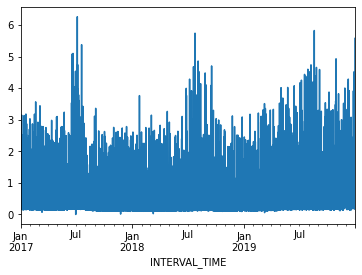
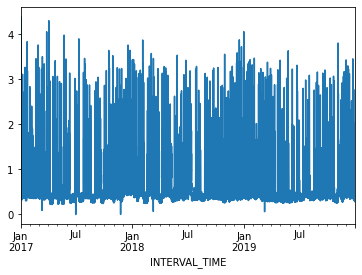
update ep2 to use different data and plots

diff --git a/episodes/02-feature-engineering.md b/episodes/02-feature-engineering.md
@@ -96,7 +96,7 @@ import pandas as pd
 Next we read the data, and set and sort the datetime index.
 
 ```python
-fp = "../../data/ladpu_smart_meter_data_01.csv"
+fp = "../../data/ladpu_smart_meter_data_07.csv"
 df = pd.read_csv(fp)
 df.set_index(pd.to_datetime(df["INTERVAL_TIME"]), inplace=True)
 df.sort_index(inplace=True)
@@ -154,14 +154,13 @@ Data columns (total 1 columns):
 dtypes: float64(1)
 memory usage: 410.6 KB
 None
-
                      INTERVAL_READ
 INTERVAL_TIME                     
-2017-01-01 00:00:00         0.3192
-2017-01-01 01:00:00         0.3294
-2017-01-01 02:00:00         0.3414
-2017-01-01 03:00:00         0.3150
-2017-01-01 04:00:00         0.3288
+2017-01-01 00:00:00         1.4910
+2017-01-01 01:00:00         0.3726
+2017-01-01 02:00:00         0.3528
+2017-01-01 03:00:00         0.3858
+2017-01-01 04:00:00         0.4278
 ```
 
 A plot of the entire dataset is somewhat noisy, though seasonal trends are
@@ -195,12 +194,12 @@ print(hourly_readings.describe().transpose())
 ```
 
 ```output
-                 count      mean       std  min    25%     50%     75%     max
-INTERVAL_READ  26280.0  0.510161  0.651826  0.0  0.153  0.1998  0.5262  6.2604
+                 count      mean       std  min     25%     50%    75%     max
+INTERVAL_READ  26280.0  0.624122  0.405971  0.0  0.3714  0.4818  0.756  4.3872
 ```
 
-The ```max``` value of 6.2604 may seem like an outlier, considering that 75%
-of INTERVAL_READ values are 0.5262 or less. However, a look back up to our first
+The ```max``` value of 4.3872 may seem like an outlier, considering that 75%
+of INTERVAL_READ values are 0.4818 or less. However, a look back up to our first
 plot indicates peak power consumption over a relatively short time period in
 the middle of the year. For now we will accept this max value as reasonable.
 
@@ -238,20 +237,17 @@ month: Int64Index([1, 1, 1, 1, 1], dtype='int64', name='INTERVAL_TIME')
 year Int64Index([2017, 2017, 2017, 2017, 2017], dtype='int64', name='INTERVAL_TIME')
 ```
 
-We can add these attributes as new features.
+We can add these attributes as new features. Out of the attributes shown above,
+we are only going to add a few numeric types and a full date string.
 
 ```python
-
 hourly_readings['hour'] = hourly_readings.index.hour
 hourly_readings['day_month'] = hourly_readings.index.day
 hourly_readings['day_week'] = hourly_readings.index.day_of_week
-hourly_readings['day_year'] = hourly_readings.index.day_of_year
-hourly_readings['day_name'] = hourly_readings.index.day_name()
-hourly_readings['week'] = hourly_readings.index.week
 hourly_readings['month'] = hourly_readings.index.month
-hourly_readings['year'] = hourly_readings.index.year
 hourly_readings['date'] = hourly_readings.index.to_series().apply(lambda x: x.strftime("%Y-%m-%d"))
 
+print(hourly_readings.info())
 print(hourly_readings.head())
 print(hourly_readings.tail())
 ```
@@ -260,40 +256,38 @@ print(hourly_readings.tail())
 <class 'pandas.core.frame.DataFrame'>
 DatetimeIndex: 26280 entries, 2017-01-01 00:00:00 to 2019-12-31 23:00:00
 Freq: H
-Data columns (total 10 columns):
+Data columns (total 6 columns):
  #   Column         Non-Null Count  Dtype  
 ---  ------         --------------  -----  
  0   INTERVAL_READ  26280 non-null  float64
  1   hour           26280 non-null  int64  
  2   day_month      26280 non-null  int64  
  3   day_week       26280 non-null  int64  
- 4   day_year       26280 non-null  int64  
- 5   day_name       26280 non-null  object 
- 6   week           26280 non-null  int64  
- 7   month          26280 non-null  int64  
- 8   year           26280 non-null  int64  
- 9   date           26280 non-null  object 
-dtypes: float64(1), int64(7), object(2)
-memory usage: 2.2+ MB
+ 4   month          26280 non-null  int64  
+ 5   date           26280 non-null  object 
+dtypes: float64(1), int64(4), object(1)
+memory usage: 1.4+ MB
 None
 
-                     INTERVAL_READ  hour  day_month  ...  month  year        date
-INTERVAL_TIME                                        ...                         
-2017-01-01 00:00:00         0.3192     0          1  ...      1  2017  2017-01-01
-2017-01-01 01:00:00         0.3294     1          1  ...      1  2017  2017-01-01
-2017-01-01 02:00:00         0.3414     2          1  ...      1  2017  2017-01-01
-2017-01-01 03:00:00         0.3150     3          1  ...      1  2017  2017-01-01
-2017-01-01 04:00:00         0.3288     4          1  ...      1  2017  2017-01-01
+                     INTERVAL_READ  hour  ...  month        date
+INTERVAL_TIME                             ...                   
+2017-01-01 00:00:00         1.4910     0  ...      1  2017-01-01
+2017-01-01 01:00:00         0.3726     1  ...      1  2017-01-01
+2017-01-01 02:00:00         0.3528     2  ...      1  2017-01-01
+2017-01-01 03:00:00         0.3858     3  ...      1  2017-01-01
+2017-01-01 04:00:00         0.4278     4  ...      1  2017-01-01
 
+[5 rows x 6 columns]
 
-[5 rows x 10 columns]
-                     INTERVAL_READ  hour  day_month  ...  month  year        date
-INTERVAL_TIME                                        ...                         
-2019-12-31 19:00:00         5.5914    19         31  ...     12  2019  2019-12-31
-2019-12-31 20:00:00         2.4234    20         31  ...     12  2019  2019-12-31
-2019-12-31 21:00:00         4.3848    21         31  ...     12  2019  2019-12-31
-2019-12-31 22:00:00         2.0952    22         31  ...     12  2019  2019-12-31
-2019-12-31 23:00:00         1.7424    23         31  ...     12  2019  2019-12-31
+                     INTERVAL_READ  hour  ...  month        date
+INTERVAL_TIME                             ...                   
+2019-12-31 19:00:00         0.7326    19  ...     12  2019-12-31
+2019-12-31 20:00:00         0.7938    20  ...     12  2019-12-31
+2019-12-31 21:00:00         0.7878    21  ...     12  2019-12-31
+2019-12-31 22:00:00         0.7716    22  ...     12  2019-12-31
+2019-12-31 23:00:00         0.4986    23  ...     12  2019-12-31
+
+[5 rows x 6 columns]
 ```
 
 Another feature than can influence power consumption is whether a given day
@@ -323,22 +317,18 @@ print(hourly_readings.info())
 <class 'pandas.core.frame.DataFrame'>
 DatetimeIndex: 26280 entries, 2017-01-01 00:00:00 to 2019-12-31 23:00:00
 Freq: H
-Data columns (total 11 columns):
+Data columns (total 7 columns):
  #   Column         Non-Null Count  Dtype  
 ---  ------         --------------  -----  
  0   INTERVAL_READ  26280 non-null  float64
  1   hour           26280 non-null  int64  
  2   day_month      26280 non-null  int64  
  3   day_week       26280 non-null  int64  
- 4   day_year       26280 non-null  int64  
- 5   day_name       26280 non-null  object 
- 6   week           26280 non-null  int64  
- 7   month          26280 non-null  int64  
- 8   year           26280 non-null  int64  
- 9   date           26280 non-null  object 
- 10  business_day   26280 non-null  bool   
-dtypes: bool(1), float64(1), int64(7), object(2)
-memory usage: 2.2+ MB
+ 4   month          26280 non-null  int64  
+ 5   date           26280 non-null  object 
+ 6   business_day   26280 non-null  bool   
+dtypes: bool(1), float64(1), int64(4), object(1)
+memory usage: 1.4+ MB
 None
 ```
 
@@ -402,26 +392,20 @@ print(hourly_readings.info())
 <class 'pandas.core.frame.DataFrame'>
 DatetimeIndex: 26280 entries, 2017-01-01 00:00:00 to 2019-12-31 23:00:00
 Freq: H
-Data columns (total 15 columns):
+Data columns (total 9 columns):
  #   Column         Non-Null Count  Dtype  
 ---  ------         --------------  -----  
  0   INTERVAL_READ  26280 non-null  float64
  1   hour           26280 non-null  int64  
  2   day_month      26280 non-null  int64  
  3   day_week       26280 non-null  int64  
- 4   day_year       26280 non-null  int64  
- 5   day_name       26280 non-null  object 
- 6   week           26280 non-null  int64  
- 7   month          26280 non-null  int64  
- 8   year           26280 non-null  int64  
- 9   date           26280 non-null  object 
- 10  business_day   26280 non-null  bool   
- 11  day_sin        26280 non-null  float64
- 12  day_cos        26280 non-null  float64
- 13  year_sin       26280 non-null  float64
- 14  year_cos       26280 non-null  float64
-dtypes: bool(1), float64(5), int64(7), object(2)
-memory usage: 3.0+ MB
+ 4   month          26280 non-null  int64  
+ 5   date           26280 non-null  object 
+ 6   business_day   26280 non-null  bool   
+ 7   day_sin        26280 non-null  float64
+ 8   day_cos        26280 non-null  float64
+dtypes: bool(1), float64(3), int64(4), object(1)
+memory usage: 1.8+ MB
 None
 ```
 
